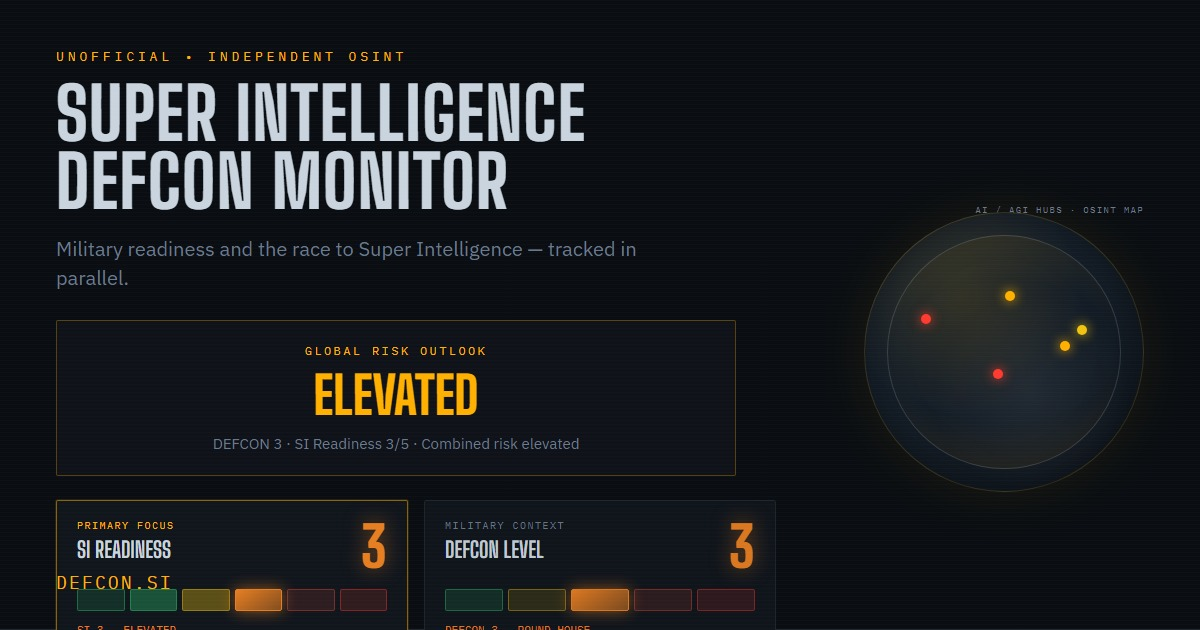
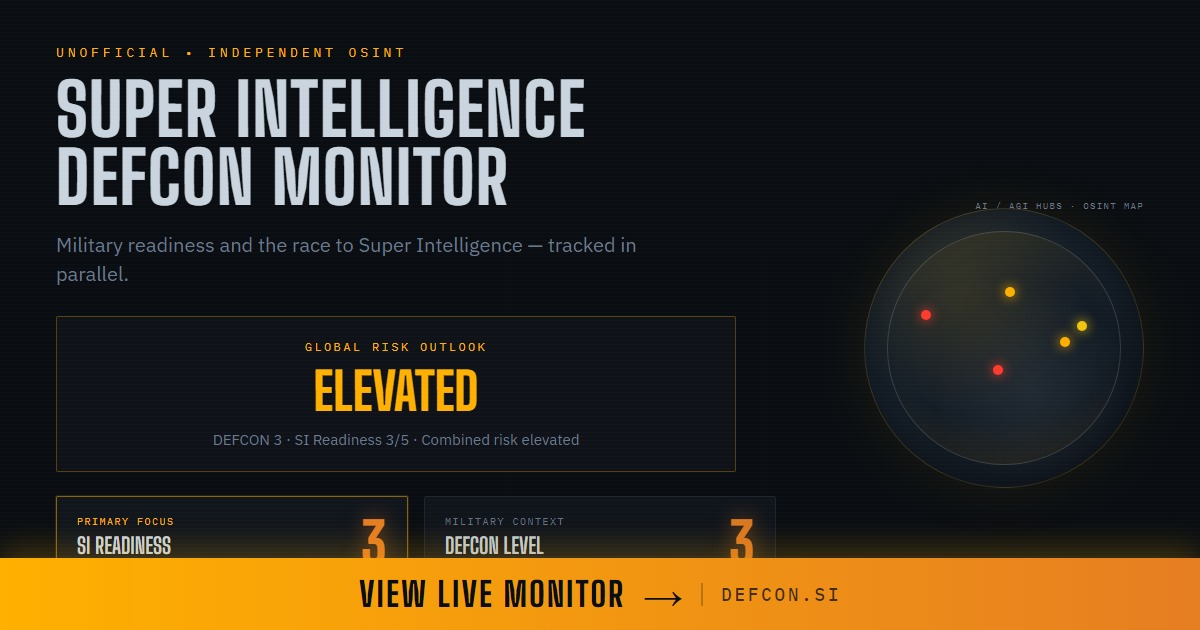
add cta bar to og social image

diff --git a/og-render.html b/og-render.html
@@ -34,7 +34,7 @@
       z-index: 1;
       width: 1200px;
       height: 630px;
-      padding: 48px 56px;
+      padding: 44px 56px 88px;
       display: grid;
       grid-template-columns: 1fr 280px;
       gap: 32px;
@@ -156,15 +156,44 @@
       margin-top: 12px;
       color: #E67E22;
     }
-    .domain {
+    .cta-bar {
       position: absolute;
-      bottom: 36px;
-      left: 56px;
+      bottom: 0;
+      left: 0;
+      right: 0;
+      height: 72px;
+      z-index: 4;
+      display: flex;
+      align-items: center;
+      justify-content: center;
+      gap: 18px;
+      background: linear-gradient(90deg, #FFB000 0%, #E67E22 100%);
+      box-shadow: 0 -8px 32px rgba(255, 176, 0, 0.25);
+    }
+    .cta-action {
+      font-family: "Big Shoulders Display", sans-serif;
+      font-weight: 800;
+      font-size: 34px;
+      letter-spacing: 0.06em;
+      text-transform: uppercase;
+      color: #0A0E12;
+    }
+    .cta-arrow {
+      font-family: "Big Shoulders Display", sans-serif;
+      font-weight: 800;
+      font-size: 40px;
+      color: #0A0E12;
+      line-height: 1;
+    }
+    .cta-url {
       font-family: "IBM Plex Mono", monospace;
       font-size: 18px;
-      letter-spacing: 0.12em;
-      color: #FFB000;
-      z-index: 3;
+      font-weight: 500;
+      letter-spacing: 0.14em;
+      text-transform: uppercase;
+      color: rgba(10, 14, 18, 0.75);
+      padding-left: 18px;
+      border-left: 2px solid rgba(10, 14, 18, 0.25);
     }
     .globe-wrap {
       position: relative;
@@ -291,7 +320,11 @@
       </div>
     </div>
   </div>
-  <p class="domain">DEFCON.SI</p>
+  <div class="cta-bar">
+    <span class="cta-action">View Live Monitor</span>
+    <span class="cta-arrow">→</span>
+    <span class="cta-url">defcon.si</span>
+  </div>
   <div class="border-bottom"></div>
 </body>
 </html>